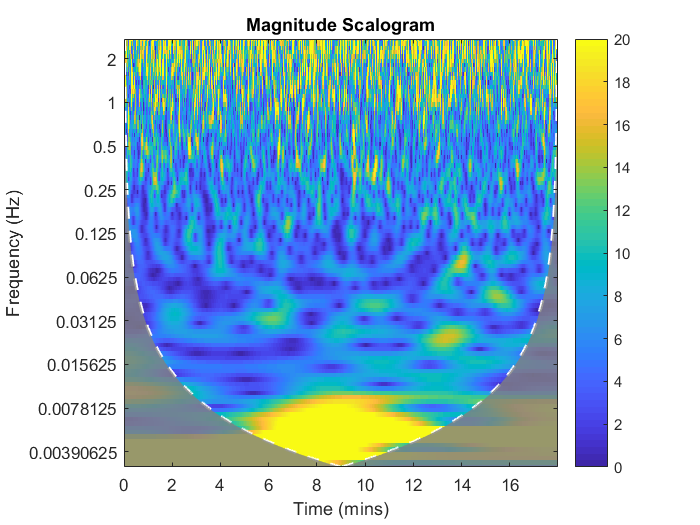
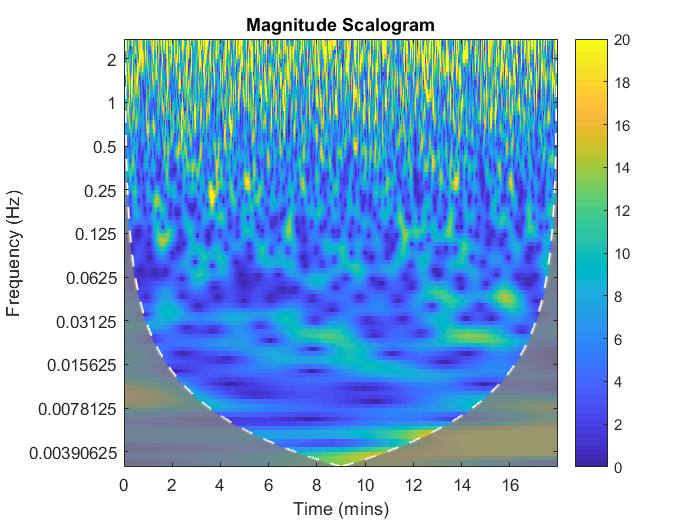
small correction - scalogram

diff --git a/contents/DataAnalysis/Math.tex b/contents/DataAnalysis/Math.tex
@@ -10,7 +10,7 @@ A continuous wavelet transform show the time frequency analysis content of the d
 The freqency of the scalograms vary from 2.7370 Hz to 0.0031 Hz. This means according to the litterature that bands of cardiac, repiratory, endothelial, myogenic and neurogenic is represented in the wavelet frequency span for the time frequency analysis. \cite{sagaidachnyi2014}
 \begin{figure}[H]
 	\includegraphics[width=1\textwidth]{figures/scalogram_uncorr}
-	\caption{Scalogram from the original data of region 24 in the cuffed recording of subject 1, where high spike magnitudes can be seen induced by the jumps.}
+	\caption{Scalogram from the original data of region 15 in the uncuffed recording of subject 1, where high spike magnitudes can be seen induced by the jumps.}
 	\label{fig:scalogram_uncorr}
 \end{figure}
 From the raw data magnitude of the scalogram show high magnitude peaks exactly at the same time points where the jumps are occurring, which can be seen in figure \ref{fig:scalogram_uncorr}. Due to this falsifying of the magnitude, the results of the data analysis are also falsified.
@@ -47,7 +47,7 @@ As shown in figure \ref{fig:reg15} the new orientation straight fits the regress
 After the drift correction is added to the signal, the energy has been reduced at this areas induced from the jump which can be seen in figure \ref{fig:scalogram_corr}. 
 \begin{figure}[H]
 	\includegraphics[width=1\textwidth]{figures/scalogram_corr}
-	\caption{Scalogram from the corrected data of region 24 in the cuffed recording of subject 1, where a dampening of the high spike and drift magnitudes induced by the jumps has been achieved.}
+	\caption{Scalogram from the corrected data of region 15 in the uncuffed recording of subject 1, where a dampening of the high spike and drift magnitudes induced by the jumps has been achieved.}
 	\label{fig:scalogram_corr}
 \end{figure} 
 However, this method still has weak points. The in figures \ref{fig:raw15} - \ref{fig:corr15} shown region of interest is located in the center of the thermal image. Regions which are located in the outer area of the thermal image show a few jumps after the correction which are bigger than before (\ref{fig:corr23}). These sporadic extended jumps are due to the fact that the thermal image is more unstable in the outer areas than in the center, thus the pixel drift is increasing with increasing distance of the center. \fxnote{maybe mention that the regression is linear and will not fit all the data thereby}
